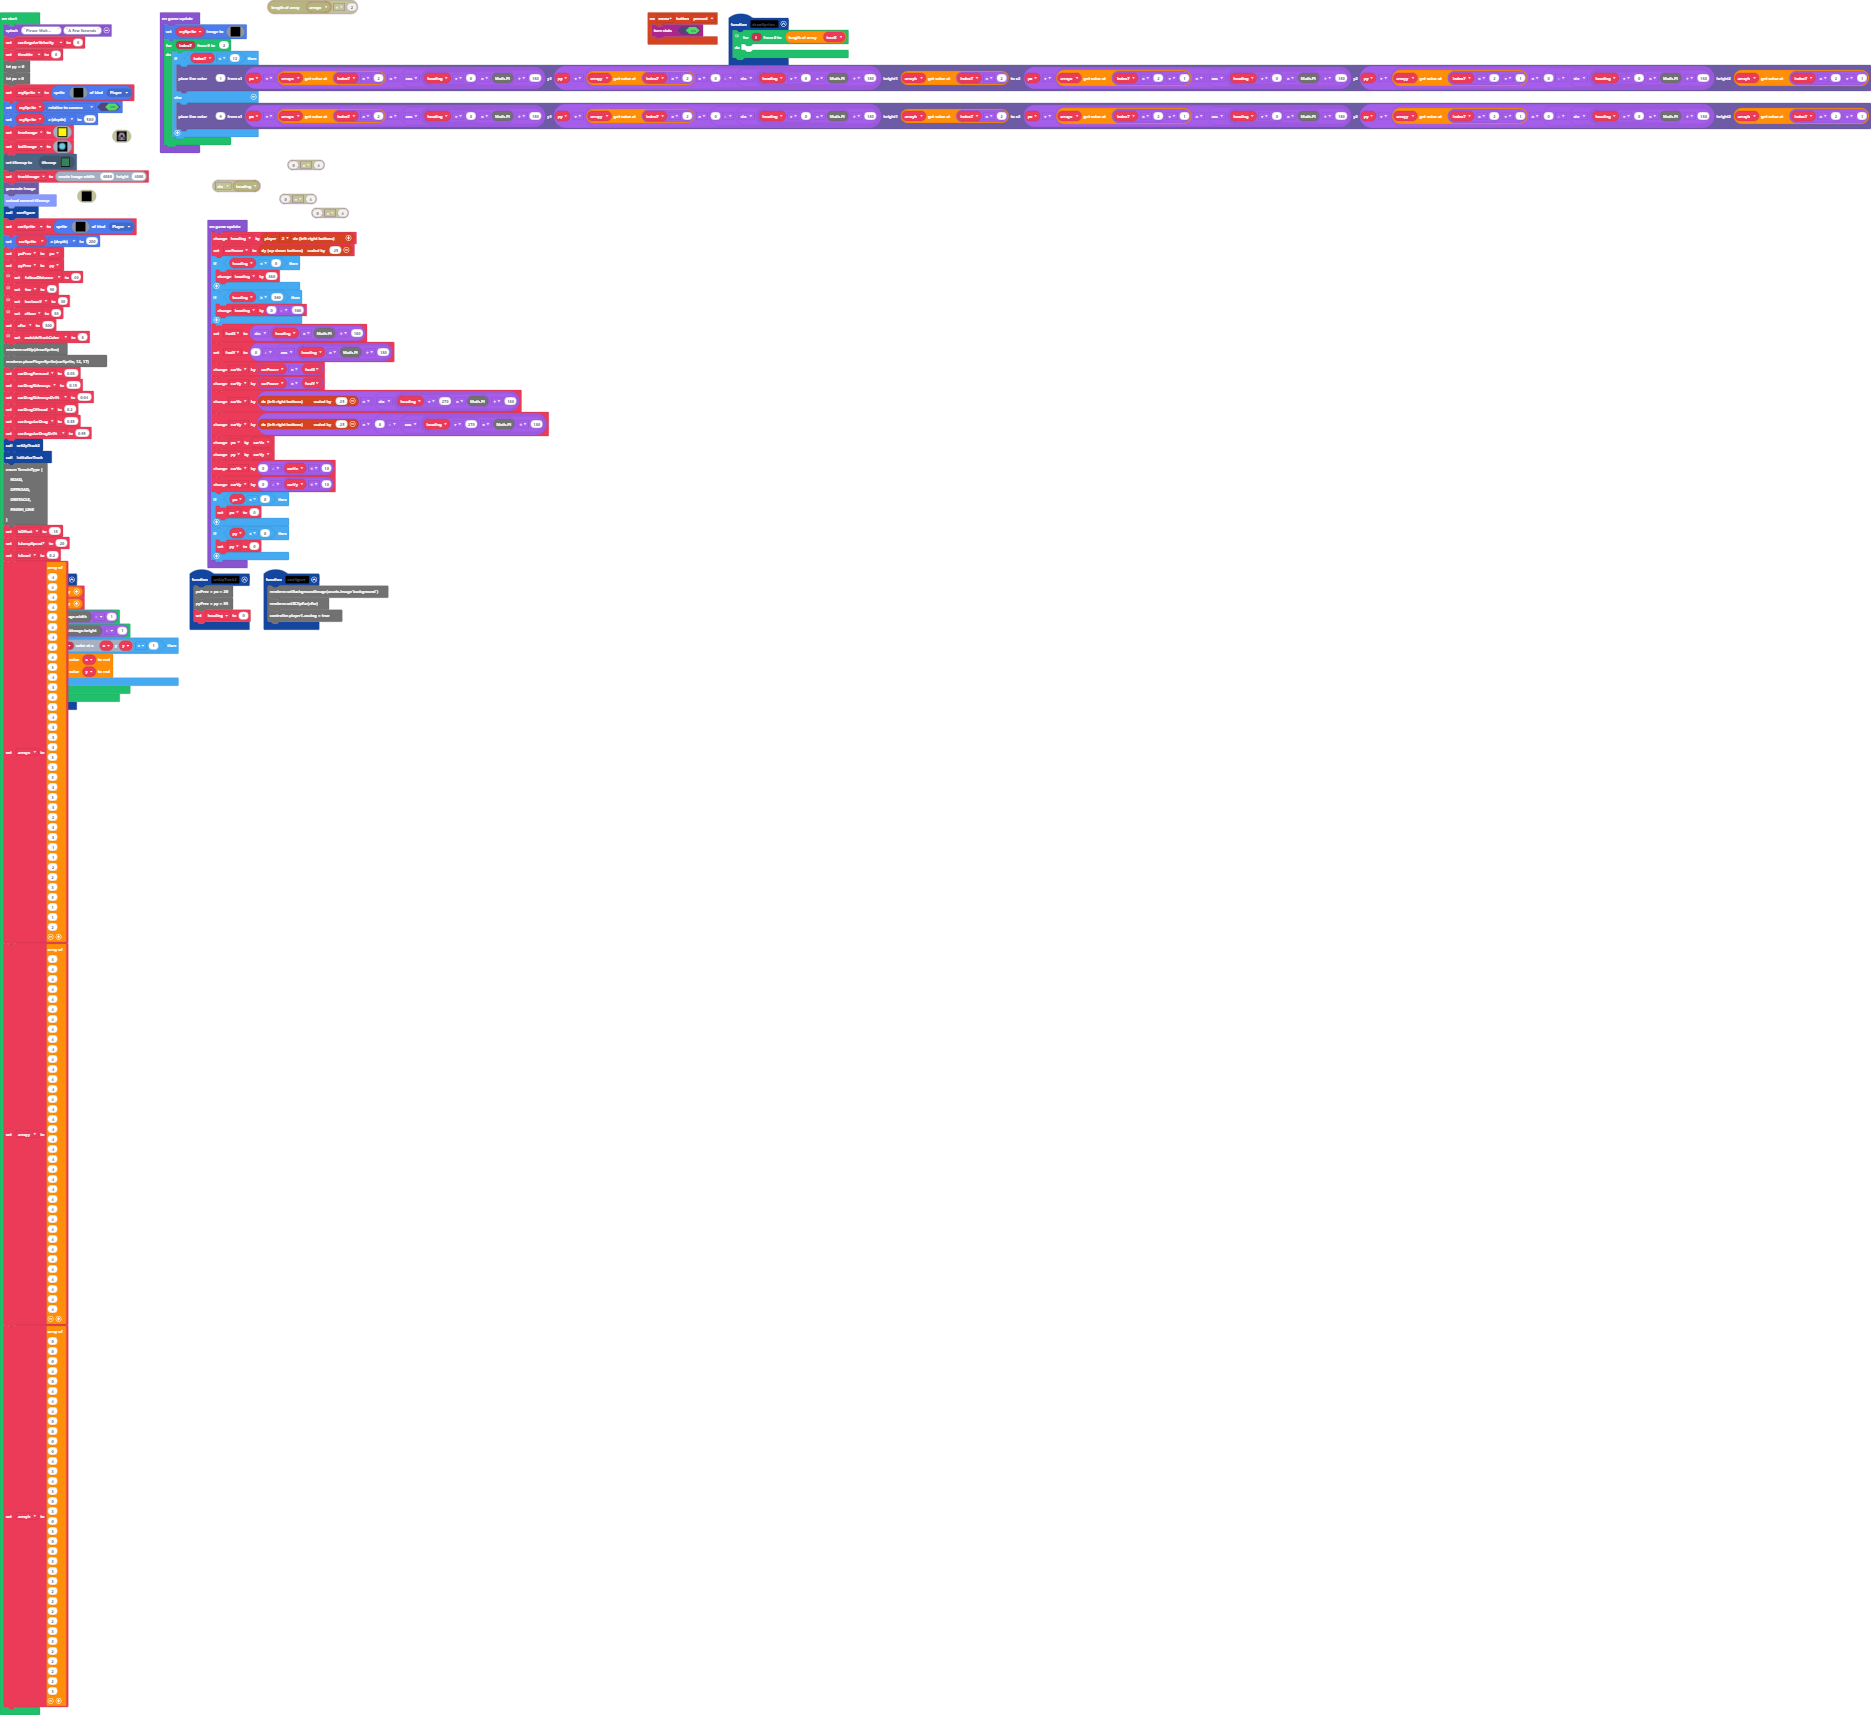
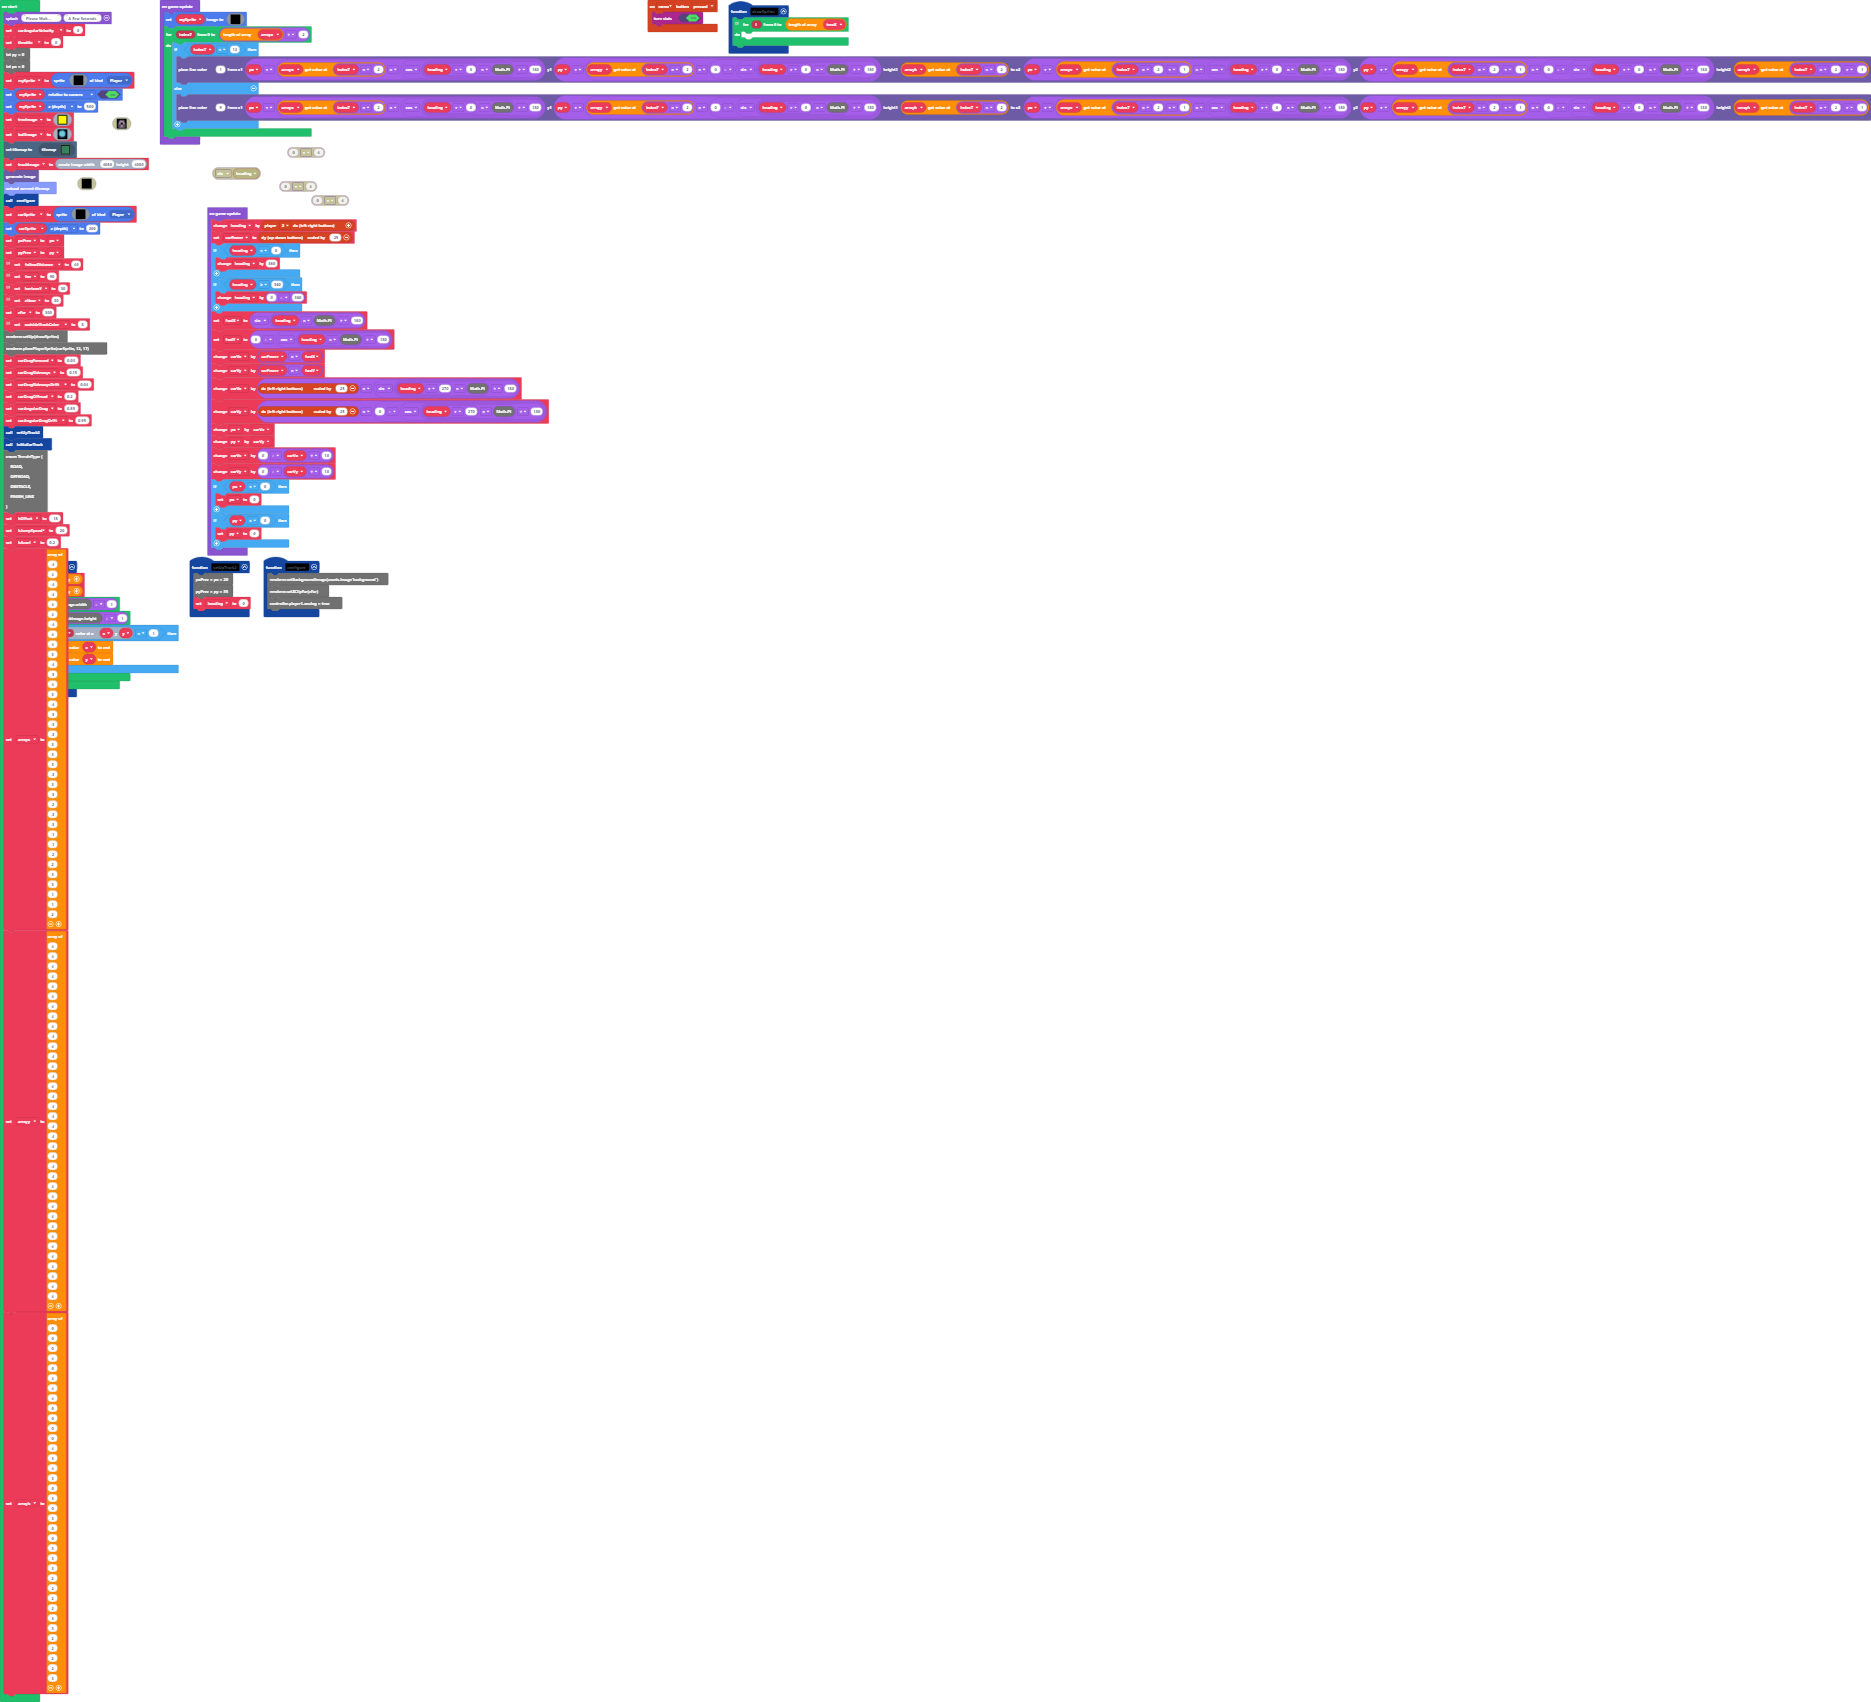
Update main.blocks, main.ts

Changed region(s): [[0.0, 0.0, 1.0, 0.9031]]

diff --git a/main.ts b/main.ts
@@ -448,7 +448,7 @@ game.onUpdate(function () {
         ................................................................................................................................................................
         ................................................................................................................................................................
         `)
-    for (let index7 = 0; index7 <= 2; index7++) {
+    for (let index7 = 0; index7 <= arrayx.length / 2; index7++) {
         if (index7 < 12) {
             renderer.place3dLine(1, px + arrayx[index7 * 2] * Math.cos((heading + 0) * Math.PI / 180), py + arrayy[index7 * 2] * (0 - Math.sin((heading + 0) * Math.PI / 180)), arrayh[index7 * 2], px + arrayx[index7 * 2 + 1] * Math.cos((heading + 0) * Math.PI / 180), py + arrayy[index7 * 2 + 1] * (0 - Math.sin((heading + 0) * Math.PI / 180)), arrayh[index7 * 2 + 1])
         } else {
